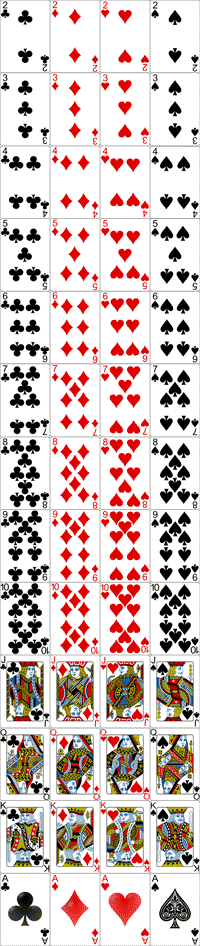
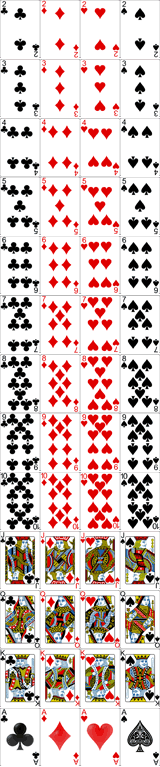
Large modification
Update cards.png to set card images to 40x59. This works for current size,
but cards need to be larger and image quality is currently in the shitter.

Update global.js to create a div with correct classes to allow me to key off
of the class names set up for the new sprite. Again, this is going to be
fucked as soon as we change card sizes.

Update style.css (i need to change this stupid ass name) for background
positions. Unfortunately, firefox is too cool to use
background-position-x and background-position-y and theres no way in hell
we're going to set background positions for each and every card, so we need
to make a js function to handle this without writing a million lines of shit
css.

Minor updates to tripeaks.js to support the above.

diff --git a/globals.js b/globals.js
@@ -9,7 +9,7 @@ var $fieldCard = $(".fieldCard");
 
 /**
  * Field is the peaks themselves. This does not include the hole or hand.
- * @constructor
+ * @namespace
  * @param deck {string} The name of the deck you want to deal from.
  */
 var Field = function (deck) {
@@ -21,21 +21,35 @@ var Field = function (deck) {
                     cards.push(deck.deal());
                 }
             };
-
+		/**
+		 * accepts a card and adds it to the cards array
+		 * @param card {object} the card being received by the field 
+		 */
         this.receiveCard = function (card) {
             cards.push(card);
         };
+        /**
+         * returns a single card object in the array
+         * @param index {number} the index of the card in the cards array
+         */
         this.returnCard = function (index) {
             return cards[index];
         };
+        /**
+         * Creates a div for each card in the cards array.
+         */
         this.toHtml = function () {
             var arrayOut = [],
                 i;
             for (i = 0; i < cards.length; i++) {
-                arrayOut.push('<img id="card-',  i + 1, '" class="card fieldCard" src="images/cards/default/',String(cards[i].getName()).toLowerCase(),'_of_',cards[i].getSuit().toLowerCase(),'.png" alt="',cards[i].getFullName(),'" />');
+                arrayOut.push('<div id="card-',  i + 1, '" class="card fieldCard ',cards[i].getSuit().toLowerCase(),' val_',String(cards[i].getName()).toLowerCase(),'" />');
             }
             return arrayOut.join('');
         };
+        /**
+         * removes a single card from the cards array
+         * @param index {number} the index of the card in the cards array that you want to remove
+         */
         this.removeCard = function (index) {
             var card = cards[index];
             return card;
@@ -45,28 +59,37 @@ var Field = function (deck) {
 
 /**
  * Hole is the deck itself.
- * @constructor
+ * @namespace
  * @param deck {string} The name of the deck to deal from.
  */
 var Hole = function (deck) {
         var cards = [],
             i;
-
+		/** @constructor */
         this.init = function () {
             cards = [];
             for (i = 0; i < 22; i++) {
                 cards.push(deck.deal());
             }
         };
+        /**
+         * pops the top card off of the stack
+         */
         this.hitHand = function () {
             return cards.pop();
         };
+        /**
+         * puts a new card object into the cards array
+         * @param card {object} the card you want to push to the hole
+         */
         this.receiveCard = function (card) {
             cards.push(card);
         };
+   		/** @depricated */
         this.giveCard = function () {
             return cards.pop();
         };
+        /** returns the total number of card objects in the cards array */
         this.checkForCards = function () {
             return cards.length;
         };
@@ -74,7 +97,7 @@ var Hole = function (deck) {
             var arrayOut = [],
                 i;
             for (i = 0; i < cards.length; i++) {
-                arrayOut.push('<img class="card" src="images/cards/default/',String(cards[i].getName()).toLowerCase(),'_of_',cards[i].getSuit().toLowerCase(),'.png" alt="',cards[i].getFullName(),'" />');
+                arrayOut.push('<div id="card-',  i + 1, '" class="card fieldCard ',cards[i].getSuit().toLowerCase(),' val_',String(cards[i].getName()).toLowerCase(),'" />');
             }
             return arrayOut.join('');
         };
@@ -83,12 +106,15 @@ var Hole = function (deck) {
 
 /**
  * Hand is the face-up cards you play on the Field from.
- * @constructor
+ * @namespace
  * @param deck {string} The deck to deal from.
  */
 var Hand = function (deck) {
         var cards = [];
-
+		
+		/**
+		 * @param card {object} the card that is being received
+		 */
         this.receiveCard = function (card) {
             cards.push(card);
         };
@@ -99,7 +125,9 @@ var Hand = function (deck) {
             var cardNumber = cards[topCard].getNumber();
             var cardName = cards[topCard].getName();
 
-            arrayOut.push('<img class="card handCard" src="images/cards/default/',String(cards[topCard].getName()).toLowerCase(),'_of_',cards[topCard].getSuit().toLowerCase(),'.png" alt="',cards[topCard].getFullName(),'" />');
+           
+     	   arrayOut.push('<div class="card handCard front ',cards[topCard].getSuit().toLowerCase(),' val_',String(cards[topCard].getName()).toLowerCase(),'" />');
+
             return arrayOut.join('');
         };
         this.getTopCard = function () {
@@ -113,7 +141,7 @@ var Hand = function (deck) {
 
 /**
  * Score is the player's... score.
- * @constructor
+ * @namespace
  */
 var Score = function () {
     this.value = 100;
@@ -141,6 +169,12 @@ var Score = function () {
 };
 
 var TPCookie = function () {
+	
+	/**
+	 * @param name {string} the name of the cookie you want to create
+	 * @param value {number} the value of the score you want to set
+	 * @param days {number} the number of days to store the cookie
+	 */
     this.create = function (name, value, days) {
     	var expires;
         if (days) {
@@ -152,7 +186,10 @@ var TPCookie = function () {
         }
         document.cookie = name + "=" + value + expires + "; path=/";
     };
-
+	
+	/**
+	 * @param name {string} the name of the cookie you want to read
+	 */
     this.read = function (name) {
         var nameEQ = name + "=";
         var ca = document.cookie.split(';');
@@ -167,7 +204,10 @@ var TPCookie = function () {
         }
         return null;
     };
-
+	
+	/**
+	 * @param name {string} the name of the cookie you want to erase
+	 */
     this.erase = function (name) {
         myCookie.create(name, "", -1);
     };

diff --git a/style.css b/style.css
@@ -1,3 +1,4 @@
+/* The table */
 body{
 	background:url(images/body.jpg) no-repeat center 0 #120902;
 }
@@ -10,38 +11,6 @@ body{
 	height:400px;
 }
 
-.Diamonds, .Hearts{
-	color:red;
-}
-
-.card, .handCard, #hole{
-	width:40px;
-	height:60px;
-	position:absolute;
-	border:1px solid #666;
-	border-radius:3px;
-	background-color:#fff;
-}
-
-.back, #hole.back{
-	
-	background-color:#234567;
-}
-
-.card:hover, .handCard:hover, #hole:hover{
-	cursor:pointer;
-}
-
-.handCard{
-	top:215px;
-	left:430px;
-}
-/*
-#card{
-	top:215px;
-	left:380px;
-}
-*/
 #stats{
 	position:absolute;
 	top:225px;
@@ -99,14 +68,7 @@ body{
 	left:360px;
 }
 
-.fieldCard{
-	font-size:100%;
-}
-
-.back{
-	font-size:0;
-}
-
+/* Positioning the field */
 #card-1, #card-2, #card-3{
 	top:10px;
 }
@@ -151,3 +113,85 @@ body{
 #card-28{left:460px;}
 #card-29{left:500px;}
 #card-30{left:540px;}
+
+/* The Cards */
+.card, .handCard, #hole{
+	width:40px;
+	height:59px;
+	position:absolute;
+	border:1px solid #666;
+	border-radius:3px;
+	background-color:#fff;
+}
+
+.back, #hole.back{
+	
+	background-color:#234567;
+}
+
+.card:hover, .handCard:hover, #hole:hover{
+	cursor:pointer;
+}
+
+.handCard{
+	top:215px;
+	left:430px;
+}
+
+/* Setting the card faces */
+.front{
+	background:url(images/cards/cards.png) no-repeat 0 0 #fff;
+}
+
+.clubs{
+	background-position-x:0;
+}
+.diamonds{
+	background-position-x:-40px;
+}
+.hearts{
+	background-position-x:-80px;
+}
+.spades{
+	background-position-x:-120px;
+}
+
+.val_2{
+	background-position-y:0;
+}
+.val_3{
+	background-position-y:-59px;
+}
+.val_4{
+	background-position-y:-118px;
+}
+.val_5{
+	background-position-y:-177px;
+}
+.val_6{
+	background-position-y:-236px;
+}
+.val_7{
+	background-position-y:-295px;
+}
+.val_8{
+	background-position-y:-354px;
+}
+.val_9{
+	background-position-y:-413px;
+}
+.val_10{
+	background-position-y:-472px;
+}
+.val_j{
+	background-position-y:-531px;
+}
+.val_q{
+	background-position-y:-590px;
+}
+.val_k{
+	background-position-y:-649px;
+}
+.val_a{
+	background-position-y:-708px;
+}

diff --git a/tripeaks.js b/tripeaks.js
@@ -42,19 +42,17 @@ function init() {
         var handVal = myHand.getValue();
 
         var success = function () {
-                var currentScore = myScore.getScore();
-                myHand.receiveCard(myField.removeCard(clickedIndex));
-                $clicked.removeClass("fieldCard").hide();
-                $hand.html(myHand.toHtml());
-                myScore.addToScore();
-            }
-            //Define an easy way to tell if a card is face-down, and if it is, "lock" the card
-        if ($clicked.hasClass("back")) {
-            locked = true;
+            var currentScore = myScore.getScore();
+            myHand.receiveCard(myField.removeCard(clickedIndex));
+            $clicked.removeClass("fieldCard").hide();
+            $hand.html(myHand.toHtml());
+            myScore.addToScore();
         }
+        //Define an easy way to tell if a card is face-down, and if it is, "lock" the card
+        
 
-        //if the clicked card isn't locked...
-        if (!locked) {
+        //if the clicked card is visible...
+        if (!$clicked.hasClass("back")) {
             // ...and it's not an ace or a king...
             if ((clickedValue != 1) && (clickedValue != 13)) {
                 // ...and the card's face value is 1 less or 1 greater than the hand card, remove it from
@@ -140,7 +138,7 @@ function reset() {
     $hole.show();
 }
 
-//Stuff in here only runs once...
+//Stuff in here only runs exactly one time per page load...
 (function () {
 
     var $newHand = $("#newHand");
